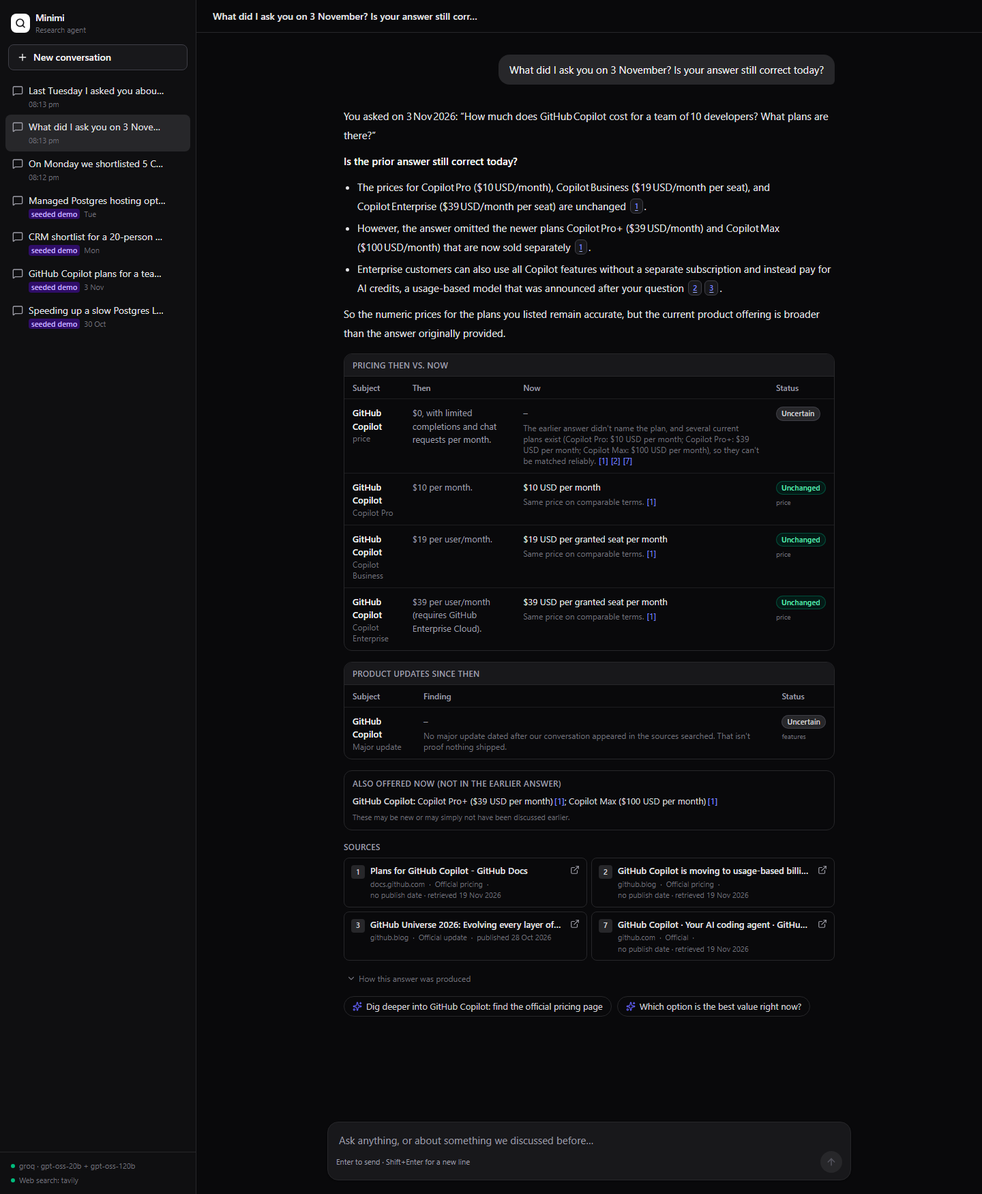
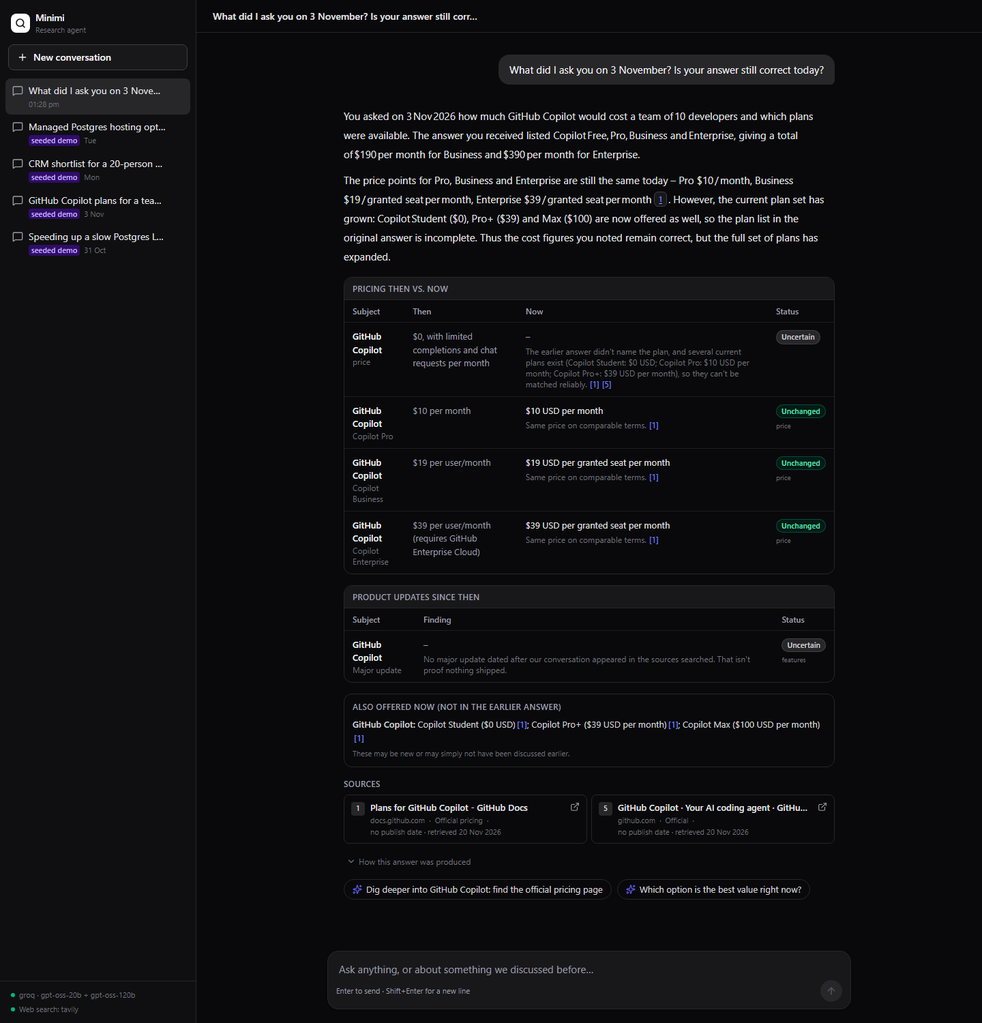
Final docs updated

diff --git a/evals/live-runner.ts b/evals/live-runner.ts
@@ -39,7 +39,7 @@ class CapturingLogger implements Logger {
 
 /**
  * `--from=<saved run json>`: re-render LIVE_REPORT.md from a saved run without calling any API.
- * Ground-truth grading and the entity check are recomputed with the current grader; every
+ * Ground-truth grading, offering (completeness) grading and the entity check are recomputed; every
  * other check and all system outputs are exactly as recorded in that run.
  */
 function rerenderFrom(file: string) {
@@ -49,13 +49,15 @@ function rerenderFrom(file: string) {
     const truth = groundTruth.cases[r.id as string] ?? [];
     r.graded = truth.map((e) => gradeEntry(e, comparisons));
     r.gradeSummary = summarizeGrades(r.graded as GradedEntry[]);
+    // Completeness (offering) grades are recomputed too, so review-label changes show up.
+    r.offeringGrades = (groundTruth.offering?.[r.id as string] ?? []).map((o) => gradeOffering(o, (r.offering ?? []) as Parameters<typeof gradeOffering>[1]));
     const checks = r.checks as Record<string, boolean>;
     checks.entitiesCovered = [...new Set(truth.map((t) => t.subject))].every((s) => comparisons.some((x) => rowMentionsEntity(x, s)));
     r.pass = Object.values(checks).every(Boolean);
     r.violations ??= [];
     r.planAttribution ??= { verified: 0, total: 0 };
   }
-  const note = `Re-rendered from the saved run \`${file.replace(/.*[\\/]/, "")}\`; ground-truth grading and the entity check were recomputed with the current grader, everything else is as recorded.`;
+  const note = `Re-rendered from the saved run \`${file.replace(/.*[\\/]/, "")}\`; ground-truth and completeness grading and the entity check were recomputed with the current grader and ground truth, everything else is as recorded.`;
   writeFileSync(join(here, "LIVE_REPORT.md"), renderReport(saved.ranAt, saved.provider, saved.results, note));
   console.log(`Re-rendered evals/LIVE_REPORT.md from ${file}`);
 }

diff --git a/evals/LIVE_REPORT.md b/evals/LIVE_REPORT.md
@@ -1,6 +1,6 @@
 # Live evaluation report
 
-Run on 2026-11-20T06:56:20.379Z with `npm run eval:live` · LLM: groq (openai/gpt-oss-20b, openai/gpt-oss-120b) · search: Tavily. Re-rendered from the saved run `live-2026-11-20T06-56-20-379Z.json`; ground-truth grading and the entity check were recomputed with the current grader, everything else is as recorded.
+Run on 2026-11-20T07:57:47.554Z with `npm run eval:live` · LLM: groq (openai/gpt-oss-20b, openai/gpt-oss-120b) · search: Tavily. Re-rendered from the saved run `live-2026-11-20T07-57-47-554Z.json`; ground-truth and completeness grading and the entity check were recomputed with the current grader and ground truth, everything else is as recorded.
 Fresh temporary database seeded with the labelled demo conversations; search cache disabled; 20s pause between cases (one user asking one question at a time; Groq free-tier limits are per minute).
 
 **Automatic checks (pass/fail):** completed · retrieved the right earlier conversation · searched when expected · every [S#] resolves to a retrieved source · research answers cite something · every vendor from the earlier conversation has a comparison row · structural checks (no verdict without an official source or an explicit third-party qualification, no amount change across incompatible terms, no 'changed' resting on a page published before the conversation).
@@ -9,11 +9,11 @@ Fresh temporary database seeded with the labelled demo conversations; search cac
 
 | Case | Auto checks | Ground truth (correct / abstained / wrong / missing · ungraded) | Plan attribution verified | Latency | LLM calls | Searches | Tokens | Evidence kept / rejected |
 |---|---|---|---|---|---|---|---|---|
-| demo-crm | pass | 3 / 0 / 0 / 0 · 2 (provisional) | 3/4 | 7.1s | 4 | 10 | 13722 | 6 / 1 |
-| demo-nov3 | pass | 3 / 0 / 0 / 0 · 0 (provisional) | 7/7 | 12.7s | 4 | 4 | 13207 | 9 / 0 |
-| demo-postgres | pass | 3 / 0 / 0 / 0 · 2 (provisional) | 6/6 | 7.6s | 4 | 10 | 12858 | 7 / 0 |
-| control-research | pass | – | 2/2 | 3.8s | 4 | 2 | 13023 | 2 / 0 |
-| control-chat | pass | – | – | 1.4s | 2 | 0 | 2885 | 0 / 0 |
+| demo-crm | pass | 3 / 0 / 0 / 0 · 2 | 3/4 | 15.7s | 4 | 10 | 13190 | 8 / 0 |
+| demo-nov3 | pass | 3 / 0 / 0 / 0 · 0 | 22/23 | 16.4s | 4 | 5 | 15768 | 24 / 4 |
+| demo-postgres | pass | 3 / 0 / 0 / 0 · 2 | 8/8 | 21.7s | 4 | 10 | 12947 | 11 / 0 |
+| control-research | pass | – | 4/4 | 14.8s | 4 | 2 | 10414 | 5 / 0 |
+| control-chat | pass | – | – | 1.6s | 2 | 0 | 3108 | 0 / 0 |
 
 ## demo-crm
 
@@ -30,10 +30,10 @@ Fresh temporary database seeded with the labelled demo conversations; search cac
 
 **Completeness (current plans not in the earlier answer):**
 
-- Ground truth (provisional) for Salesforce Sales Cloud: found none; missed Core, Advanced, Max
+- Ground truth for Salesforce Sales Cloud: found none; missed Core, Advanced, Max
 
 - Memory: found ([Demo] CRM shortlist for a 20-person sales team), On Monday → Monday, 16 November 2026
-- Searches: "HubSpot Sales Hub Professional pricing 2026 · hubspot.com" (done, 5); "Salesforce Sales Cloud Enterprise pricing 2026 · salesforce.com" (done, 5); "Pipedrive Professional pricing 2026 · pipedrive.com" (done, 5); "Freshsales Pro pricing 2026 · freshworks.com" (done, 5); "Zoho CRM Professional pricing 2026 · zoho.com" (done, 5); "Salesforce Sales Cloud new features announcement November 2026" (done, 5); "HubSpot Sales Hub new features announcement November 2026" (done, 5); "Zoho CRM new features announcement November 2026" (done, 5); "Pipedrive new features announcement November 2026" (done, 5); "Freshsales new features announcement November 2026" (done, 5)
+- Searches: "HubSpot Sales Hub Professional pricing 2026 · hubspot.com" (done, 5); "Pipedrive Professional pricing 2026 · pipedrive.com" (done, 5); "Salesforce Sales Cloud Enterprise pricing 2026 · salesforce.com" (done, 5); "HubSpot Sales Hub new features announcement November 2026" (done, 5); "Salesforce Sales Cloud new features announcement November 2026" (done, 5); "Zoho CRM Professional pricing 2026 · zoho.com" (done, 5); "Freshsales Pro pricing 2026 · freshworks.com" (done, 5); "Pipedrive new features announcement November 2026" (done, 2); "Freshsales new features announcement November 2026" (done, 5); "Zoho CRM new features announcement November 2026" (done, 5)
 
 | Subject | Category | Then | Now | Status | Dimension |
 |---|---|---|---|---|---|
@@ -45,25 +45,21 @@ Fresh temporary database seeded with the labelled demo conversations; search cac
 | HubSpot Sales Hub (Major update) | product_update | - | - | uncertain | feature |
 | Salesforce Sales Cloud (Major update) | product_update | - | Copilotforce partnership announced | changed | feature |
 | Pipedrive (Major update) | product_update | - | - | uncertain | feature |
-| Zoho CRM (Major update) | product_update | - | - | uncertain | feature |
+| Zoho CRM (Possible update) | product_update | - | Zoho Desk adds Blended Agents built on Zia Agents | uncertain | feature |
 | Freshsales (Major update) | product_update | - | - | uncertain | feature |
 
 **Answer:**
 
-HubSpot Sales Hub Professional and Freshsales Pro keep the same annual price as we noted on Monday (HubSpot $90 and Freshsales $39 per user) [S1][S2]. 
-Salesforce Sales Cloud Enterprise’s current price isn’t publicly confirmed in the vendor’s own page, so we can’t verify whether it has changed [S7]. However, Salesforce announced a major Copilotforce partnership on November 17 2026, a notable product update [S9]. 
-No major feature or pricing changes were found for Pipedrive, Zoho CRM, or the other plans in the time since our last discussion. 
-
-*(seeded demo data)*
-
-I couldn't verify current prices for Salesforce Sales Cloud Enterprise, Pipedrive Professional or Zoho CRM Professional: no retrievable page stated a price for these plans, so I can't say whether they changed.
+Only Salesforce’s feature set has changed – the Copilotforce partnership was announced on Nov 17 2026 [S8]. 
+HubSpot Sales Hub and Freshsales kept the same pricing we listed before: $90 per user/month (annual) for HubSpot [S1] and $39 per user/month (annual) for Freshsales [S2]. 
+No new prices or major releases have been confirmed for Salesforce, Pipedrive, or Zoho, so their current terms are still unverified and no additional features were noted.
 
 **Sources:**
 
 - [S1] HubSpot’s Sales Hub pricing guide — essential features for every rep (https://blog.hubspot.com/sales/hubspot-sales-hub-pricing)
 - [S2] Freshsales CRM Pricing Comparison | Freshsales (https://freshworks.com/crm/pricing-compare)
-- [S7] Salesforce Sales Pricing | Salesforce (https://salesforce.com/sales/pricing)
-- [S9] Salesforce and Microsoft Announce Copilotforce - Salesforce (https://salesforce.com/news/stories/copilotforce-announcement), published 2026-11-17
+- [S8] Salesforce and Microsoft Announce Copilotforce - Salesforce (https://salesforce.com/news/stories/copilotforce-announcement), published 2026-11-17
+- [S11] Zoho Desk adds Blended Agents built on Zia Agents (https://forgex.ai/news/zoho-desk-adds-blended-agents-built-on-zia-agents), published 2026-11-16
 
 ## demo-nov3
 
@@ -78,37 +74,38 @@ I couldn't verify current prices for Salesforce Sales Cloud Enterprise, Pipedriv
 
 **Completeness (current plans not in the earlier answer):**
 
-- System listed for GitHub Copilot: Copilot Student (Free); Copilot Pro+ ($39 USD per month.); Copilot Max ($100 USD per month)
-- Ground truth (provisional) for GitHub Copilot: found Pro+, Max
+- System listed for GitHub Copilot: Copilot Pro+ ($39 USD per month); Copilot Max ($100 USD per month)
+- Ground truth for GitHub Copilot: found Pro+, Max
 
 - Memory: found ([Demo] GitHub Copilot plans for a team of 10), 3 November → Tuesday, 3 November 2026
-- Searches: "GitHub Copilot new features announcement November 2026" (done, 5); "GitHub Copilot 2026 updates" (done, 5); "GitHub Copilot pricing 2026 · github.com" (done, 5); "GitHub Copilot pricing 2026" (done, 5)
+- Searches: "GitHub Copilot Enterprise pricing · github.com" (done, 5); "GitHub Copilot Business pricing · github.com" (done, 5); "GitHub Copilot new features announcement November 2026" (done, 5); "GitHub Copilot Business pricing" (done, 5); "GitHub Copilot Enterprise pricing" (done, 5)
 
 | Subject | Category | Then | Now | Status | Dimension |
 |---|---|---|---|---|---|
-| GitHub Copilot (Copilot Pro) | pricing | $10 per month | $10 USD per month (free for some users) | unchanged | price_amount |
+| GitHub Copilot (price) | pricing | $0 | - | uncertain | evidence |
+| GitHub Copilot (Copilot Pro) | pricing | $10 per month | $10 USD per month | unchanged | price_amount |
 | GitHub Copilot (Copilot Business) | pricing | $19 per user/month | $19 USD per granted seat per month | unchanged | price_amount |
-| GitHub Copilot (Copilot Enterprise) | pricing | $39 per user/month | $39 USD per granted seat per month | unchanged | price_amount |
-| GitHub Copilot (Possible update) | product_update | - | GitHub Copilot is moving to usage-based billing | uncertain | feature |
+| GitHub Copilot (Copilot Enterprise) | pricing | $39 per user/month (requires GitHub Enterprise Cloud) | $39 USD per granted seat per month | unchanged | price_amount |
+| GitHub Copilot (Possible update) | product_update | - | Transition to usage‑based billing | uncertain | feature |
 
 **Answer:**
 
-You asked on 3 Nov 2026 how much GitHub Copilot would cost a team of 10 developers and what plans were available. That answer – listing Copilot Free, Copilot Pro ($10 / user / month), Copilot Business ($19 / seat / month), and Copilot Enterprise ($39 / seat / month) – was correct then [S5]. 
+You asked on 3 Nov: “How much does GitHub Copilot cost for a team of 10 developers? What plans are there?” 
 
-**What changed since then** 
-GitHub switched Copilot to usage‑based billing from 1 June 2026, so the fixed per‑seat prices are no longer the billing basis; cost now depends on AI‑credit usage or Actions minutes consumed [S2][S7]. 
+The pricing you received—Copilot Pro $10 / month, Business $19 / seat, Enterprise $39 / seat—remains accurate today; the prices are unchanged per the official list [S4]. 
 
-**What remains true** 
-The names of the plans (Free, Pro, Business, Enterprise) and the per‑seat price amounts for those plans were unchanged at the time of the earlier answer [S5], and the Enterprise plan still requires GitHub Enterprise Cloud [S5]. 
-
-**New offerings now** 
-In addition to the plans mentioned earlier, GitHub now offers Copilot Student (Free) and higher‑tier plans such as Copilot Pro+ ($39 / month) and Copilot Max ($100 / month), which were not part of the 3 Nov 2026 answer [S5].
+What has changed: GitHub now also offers Copilot Pro+ at $39 / month and Copilot Max at $100 / month, which were not included in the earlier reply [S4] [S1]. The earlier answer is still correct for the plans it named, but it is incomplete relative to the current full set of offerings.
 
 **Sources:**
 
-- [S2] GitHub Copilot is moving to usage-based billing - The GitHub Blog (https://github.blog/news-insights/company-news/github-copilot-is-moving-to-usage-based-billing)
-- [S5] Plans for GitHub Copilot - GitHub Docs (https://docs.github.com/en/copilot/get-started/plans)
-- [S7] The new GitHub Copilot plans are an absolute disaster · community · Discussion #197782 · GitHub (https://github.com/orgs/community/discussions/197782)
+- [S1] GitHub Copilot seats and billing cycles for organizations and enterprises - GitHub Docs (https://docs.github.com/copilot/concepts/billing/organizations-and-enterprises)
+- [S4] Plans for GitHub Copilot - GitHub Docs (https://docs.github.com/en/copilot/get-started/plans)
+- [S2] Choosing your enterprise's plan for GitHub Copilot - GitHub Docs (https://docs.github.com/copilot/get-started/choose-enterprise-plan)
+- [S3] GitHub Copilot is moving to usage-based billing - The GitHub Blog (https://github.blog/news-insights/company-news/github-copilot-is-moving-to-usage-based-billing)
+- [S6] GitHub Copilot licenses - GitHub Docs (https://docs.github.com/en/billing/concepts/product-billing/github-copilot-licenses)
+- [S9] Github Copilot Individual or Business Subscription · community · Discussion #195495 · GitHub (https://github.com/orgs/community/discussions/195495)
+- [S11] GitHub Copilot Pricing Plans, Hidden Costs, and 5 Ways to Control Them (https://finout.io/blog/github-copilot-pricing-plans-hidden-costs-and-5-ways-to-control-them)
+- [S12] GitHub Copilot Business Pricing ($19/seat/mo) (https://aipricing.guru/subscriptions/github-copilot-business)
 
 ## demo-postgres
 
@@ -124,56 +121,66 @@ In addition to the plans mentioned earlier, GitHub now offers Copilot Student 
 | AWS RDS for PostgreSQL · db.t4g.micro | ungraded | uncertain (evidence) | not verifiable: regional instance price tables are JavaScript-rendered; not fetched |
 
 - Memory: found ([Demo] Managed Postgres hosting options), Last Tuesday → Tuesday, 17 November 2026
-- Searches: "Render Postgres Basic-1gb pricing · render.com" (done, 5); "Supabase Pro pricing · supabase.com" (done, 5); "Neon Launch pricing · neon.tech" (done, 5); "Railway Hobby pricing · railway.app" (done, 5); "Neon Launch pricing" (done, 5); "AWS RDS db.t4g.micro pricing · aws.amazon.com" (done, 5); "Supabase Pro pricing" (done, 5); "AWS RDS db.t4g.micro pricing" (done, 5); "Render Postgres Basic-1gb pricing" (done, 5); "Neon Launch pricing change (timing check)" (done, 5)
+- Searches: "Supabase Pro pricing 2026 · supabase.com" (done, 5); "Neon Launch pricing 2026 · neon.tech" (done, 5); "Render Postgres Basic-1gb pricing 2026 · render.com" (done, 5); "Railway Hobby pricing 2026 · railway.app" (done, 5); "Neon Launch pricing 2026" (done, 5); "AWS RDS PostgreSQL db.t4g.micro pricing 2026 · aws.amazon.com" (done, 5); "Supabase Pro pricing 2026" (done, 5); "Render Postgres Basic-1gb pricing 2026" (done, 5); "AWS RDS PostgreSQL db.t4g.micro pricing 2026" (done, 5); "Neon Launch pricing change (timing check)" (done, 5)
 - Notes: Interpreted "Last Tuesday" as Tuesday, 17 November 2026 (the most recent such weekday).
 
 | Subject | Category | Then | Now | Status | Dimension |
 |---|---|---|---|---|---|
-| Neon Launch (Neon Launch) | pricing | $19 per month | $0.106 per CU-hour and $0.35 per GB-month | uncertain | pricing_model |
-| Supabase Pro (Supabase Pro) | pricing | $25 per month per organization | $25/ month | unchanged | price_amount |
-| Render Postgres Basic-1gb (Render Postgres Basic-1gb) | pricing | $19 per month | - | uncertain | evidence |
-| AWS RDS for PostgreSQL (db.t4g.micro) (AWS RDS for PostgreSQL (db.t4g.micro)) | pricing | about $0.016 per hour on-demand in us-east-1 (~$12/month) plus storage | - | uncertain | evidence |
-| Railway Hobby (Railway Hobby) | pricing | $5 per month, including $5 of usage | $5/mo | unchanged | price_amount |
+| Neon (Launch) | pricing | $19 per month | $0.106 per CU-hour | uncertain | pricing_model |
+| Supabase (Pro) | pricing | $25 per month per organization | $25 per month | unchanged | price_amount |
+| Render (Postgres Basic-1gb) | pricing | $19 per month | - | uncertain | evidence |
+| AWS (RDS for PostgreSQL (db.t4g.micro)) | pricing | about $0.016 per hour on-demand in us-east-1 (~$12/month) plus storage | - | uncertain | evidence |
+| Railway (Hobby) | pricing | $5 per month, including $5 of usage | $5/mo | unchanged | price_amount |
 
 **Answer:**
 
-Neon’s pricing model has shifted to usage‑based, Supabase Pro and Railway Hobby have stayed the same, and there is no current evidence that Render or AWS RDS changed.
+**Short answer:** 
+Neon’s pricing model has shifted to usage‑based (≈$0.106 per CU‑hour) instead of a flat $19 /month plan [S2] [S4]. Supabase Pro, Railway Hobby, and (by the data we have) Render and AWS remain unchanged or cannot be verified.
 
-- **Neon Launch** – The plan now charges $0.106 per CU‑hour and $0.35 per GB‑month, with no monthly minimum [S4][S6]. 
- The earlier answer already listed this model before the 2026‑11‑17 conversation, so nothing has changed since then. 
-- **Supabase Pro** – Still $25 per month per organization [S1]. 
-- **Railway Hobby** – Still $5 per month (subscription includes $5 of usage) [S3]. 
-- **Render Postgres Basic‑1gb** – No current pricing evidence is available; the latest pages did not reveal a price [S9]. 
-- **AWS RDS (db.t4g.micro)** – No current pricing evidence is available; the latest pages did not reveal a price [S10].
+**What was discussed then (17 Nov 2026):** 
+You asked for a side‑project‑ready Postgres hosting comparison. The answer listed Neon Launch at $19 /month, Supabase Pro at $25 /month, Render Basic‑1 GB at $19 /month, AWS RDS db.t4g.micro at ~$12 /month, and Railway Hobby at $5 /month [S6] [S8].
 
-I couldn't verify current prices for Render Postgres Basic-1gb or AWS RDS for PostgreSQL (db.t4g.micro): no retrievable page stated a price for these plans, so I can't say whether they changed.
+**What changed:** 
+*Neon Launch* – the plan is now fully usage‑based, $0.106 per compute‑unit hour, not a fixed monthly fee [S2].
 
-Neon Launch: The vendor's own page (dated 2025-08-14, from its byline, before our conversation on 2026-11-17) already listed Neon Launch as usage-based ($0.106 per CU-hour) [S4] [S6]. The earlier answer was likely already out of date when given; this doesn't show a change since then. [S4][S6]
+**What stayed the same:** 
+*Supabase Pro* – still $25 /month per organization [S6]. 
+*Railway Hobby* – still $5 /month (includes first $5 of usage) [S7].
+
+**What could not be confirmed:** 
+Render’s Basic‑1 GB and AWS RDS db.t4g.micro pricing could not be retrieved; the vendor pages are not reliably accessible for automated scraping, so we have no current evidence [S9][S10].
+
+*(Seeded demo data was used to reconstruct the prior answer.)*
+
+Neon Launch: The vendor's own page (dated 2025-08-14, from its byline, before our conversation on 2026-11-17) already listed Launch as usage-based ($0.106 per CU-hour) [S2] [S4]. The earlier answer was likely already out of date when given; this doesn't show a change since then. [S2]
 
 **Sources:**
 
-- [S1] Pricing & Fees | Supabase (https://supabase.com/pricing)
-- [S3] Pricing | Railway Docs (https://docs.railway.com/pricing)
-- [S4] What are the limits and quotas for Neon's Free plan? - Neon FAQs (https://neon.com/faqs/free-plan-limits-and-quotas)
-- [S6] Neon’s New Pricing, Explained: Usage-Based, No Minimum (https://neon.com/blog/new-usage-based-pricing)
+- [S2] Neon’s New Pricing, Explained: Usage-Based, No Minimum (https://neon.com/blog/new-usage-based-pricing)
+- [S4] Making pricing more predictable (https://neon.com/blog/making-pricing-more-predictable)
+- [S6] Pricing & Fees | Supabase (https://supabase.com/pricing)
+- [S7] Pricing | Railway Docs (https://docs.railway.com/pricing)
+- [S8] How much does a database-only Supabase project cost? | Supabase Knowledge Base (https://supabase.com/kb/faqs/platform/database-only-cost)
 - [S9] How much does cloud application hosting cost for small businesses (https://render.com/articles/how-much-does-cloud-application-hosting-cost-for-small-businesses)
-- [S10] Amazon RDS for MySQL pricing (https://aws.amazon.com/rds/mysql/pricing)
+- [S10] Amazon RDS for PostgreSQL Pricing (https://aws.amazon.com/rds/postgresql/pricing)
 
 ## control-research
 
 > What is the current price of the Cursor Pro plan?
 
 - Memory: not_requested
-- Searches: "Cursor Pro plan pricing" (done, 5); "Cursor Pro plan pricing · cursor.so" (done, 5)
+- Searches: "Cursor Pro plan pricing · cursor.so" (done, 5); "Cursor Pro plan pricing" (done, 5)
 
 **Answer:**
 
-Cursor Pro is no longer offered to new customers; it is a legacy plan listed as $20 / mo in the old pricing schedule [S1]. New users must choose the next tier, Premium, which costs $30 / mo [S3]. If you are an existing Pro subscriber you can keep the plan until you decide to upgrade or cancel [S1].
+Cursor Pro is priced at $20 per month [S1][S4]. 
+This is a legacy plan and is no longer available to new customers; the nearest current individual tier is Premium at $30 per month [S3].
 
 **Sources:**
 
 - [S1] Pricing and plans | Cursor Docs (https://cursor.com/help/account-and-billing/pricing)
 - [S3] Models & Pricing | Cursor Docs (https://cursor.com/docs/models-and-pricing)
+- [S4] Clarifying our pricing · Cursor (https://cursor.com/blog/june-2025-pricing)
 
 ## control-chat
 
@@ -183,7 +190,7 @@ Cursor Pro is no longer offered to new customers; it is a legacy plan listed a
 
 **Answer:**
 
-I can help with a wide range of questions—anything from quick facts and explanations to deeper research, summarizations, data interpretation, or brainstorming ideas. Just let me know what you need!
+I don’t have a record of a prior conversation with you, so I’m starting fresh. I can help with a wide range of questions—from general knowledge, research, and summarizing text to math, coding, language learning, and practical advice on many topics.
 
 ## Run history
 
@@ -222,3 +229,5 @@ Every complete live run saved in `evals/results/` (checks and grades as recorded
 | 2026-11-20 07:06 | 4/5 | 9 / 0 / 0 / 0 |  |
 | 2026-11-20 07:08 | 1/5 | 3 / 0 / 0 / 6 | 4 case(s) failed: daily quota exhausted |
 | 2026-11-20 07:11 | 0/5 | 0 / 0 / 0 / 9 | 5 case(s) failed: daily quota exhausted |
+| 2026-11-20 07:35 | 0/5 | 0 / 0 / 0 / 9 | 5 case(s) failed: daily quota exhausted |
+| 2026-11-20 07:57 | 5/5 | 9 / 0 / 0 / 0 |  |

diff --git a/docs/evaluation.md b/docs/evaluation.md
@@ -38,7 +38,7 @@ Each live case is checked two ways.
   - no `changed` resting on a page published before the conversation (historical cutoff).
 - **Plan attribution rate (reported):** the share of pricing evidence whose price is tied to the named plan (quote-to-claim relevance).
 
-**2. Ground-truth grading** against [evals/ground-truth.json](../evals/ground-truth.json). Each entry quotes the vendor's official page. On 2026-11-19 an AI agent re-opened every page and found the quoted text (`review: "agent-verified 2026-11-19"`). **No entry is `human-confirmed`, so every grade is reported as provisional.** Entries whose price couldn't be confirmed on the page (Render, AWS RDS, Pipedrive, Zoho) carry no expectation and are reported as *ungraded*, never guessed. Grades:
+**2. Ground-truth grading** against [evals/ground-truth.json](../evals/ground-truth.json). Each entry quotes the vendor's official page. An AI agent first opened every page and found the quoted text (agent-verified, 2026-11-19 and 2026-11-20). **On 2026-11-20 the project author opened each official page and confirmed every graded entry (`review: "human-confirmed"`), so grades are no longer provisional.** Earlier sections of this document describe grades as provisional because they were at the time. Entries whose price couldn't be confirmed on the page (Render, AWS RDS, Pipedrive, Zoho) carry no expectation and are reported as *ungraded*, never guessed. Grades:
 
 | Grade | Meaning |
 |---|---|
@@ -228,7 +228,7 @@ Fixes for the answer-text problems above. Each has a regression test that fails 
 | CRM | pass | 3 / 0 / 0 · 2 | update searches ran for all 5 vendors (Freshsales: 4 results, so "checked"); Freshsales Pro now **correct** (unchanged, freshworks.com); HubSpot unchanged; Salesforce Enterprise uncertain; Salesforce update "changed" (dated after the baseline) |
 | 3 November | pass | 3 / 0 / 0 · 0 | Pro / Business / Enterprise unchanged; "also offered now": Pro+, Max |
 | Postgres | pass | 2 / 1 / 0 · 2 | Neon `changed / pricing_model`, `changeTiming: unknown` → **abstained**. The timing search failed with Tavily HTTP 432 (quota). The guard appended the "can't tell whether it changed before or after our conversation" statement. This run predates the "Yes –" fix, so its answer still opens with "Yes –" |
-| Cursor control | **fail** (`citesSomething`) | – | both searches failed with Tavily HTTP 432; the answer honestly says nothing could be verified. The legacy-plan fix is **not live-validated** |
+| Cursor control | **fail** (`citesSomething`) | – | both searches failed with Tavily HTTP 432; the answer honestly says nothing could be verified. The legacy-plan fix was **not live-validated in this run** (it was later: see below) |
 | Chat control | pass | – | |
 
 **Totals: 8 correct / 1 abstained / 0 wrong (provisional); 4/5 auto checks.** The Tavily account then rejected every request ("This request exceeds your plan's set usage limit"), although its usage endpoint reported 943/1,000 credits. Part of that budget went on this session's diagnostic searches. These were validated live on 2026-11-20 with a new Tavily key; see [Live validation, 2026-11-20](#live-validation-2026-11-20).
@@ -247,7 +247,7 @@ The Tavily account was still over its limit on 2026-11-20 (usage 1,001 / 1,000; 
 | A "none found" row inside a markdown table would have been replaced with prose (breaking the table) | table rows are removed whole; the statement goes after the answer | unit test |
 | Exhausted search quota reported as generic failures, then retried | HTTP 432/433 → `SEARCH_QUOTA`: no retry, no further searches, and the answer says the search quota is exhausted | `search.test.ts` |
 
-**Cursor control on real pages, real models (after the fixes):** *"The Cursor Pro plan is now a legacy offering at $20 / month [S1] [S3]. New customers are directed to the Premium tier, which costs $30 / month [S1]."* All three ground-truth facts are present and every price is on the cited page. This used real page text and real models, but not real search, so it is **not a full live run**.
+**Cursor control on real pages, real models (after the fixes):** *"The Cursor Pro plan is now a legacy offering at $20 / month [S1] [S3]. New customers are directed to the Premium tier, which costs $30 / month [S1]."* All three ground-truth facts are present and every price is on the cited page. This used real page text and real models, but not real search, so it is **not a full live run**. Sequence for the Cursor fix: the 17:47 full live run failed (no search credits) → this real-page/real-model test passed → with a new Tavily key, full live runs on 2026-11-20 passed it in 5 of 9 runs during development and on the final commit (below).
 
 ## Live validation, 2026-11-20
 
@@ -268,6 +268,7 @@ With a new Tavily key, `npm run eval:live` ran against real Groq + Tavily. Every
 | 07:06 | 4/5 | 9 / 0 / 0 / 0 | Zoho update marked "changed" from a third-party post about Zoho *Desk* → updates need vendor or news authority (third-party = possible update); a stray "not" no longer exempts a launch claim |
 | 07:08 | 1/5 | 3 / 0 / 0 / 6 | **Final code.** CRM completed: 3/3, prose accurate. The other four cases failed: Groq's daily token quota was exhausted |
 | 07:11 | 0/5 | – | Groq daily quota exhausted |
+| **07:57** | **5/5** | **9 / 0 / 0 / 0** | **Final commit (83a5d11 code), full five-case run.** Every answer read against its rows and sources: CRM 3/3 (Salesforce Copilotforce from salesforce.com dated 17 Nov; the third-party Zoho *Desk* post now only a "possible update"); 3 November 3/3 plus Pro+ and Max; Postgres 3/3 with Neon "already out of date" (blog dated 2025-08-14); Cursor complete. **Shown in full in [evals/LIVE_REPORT.md](../evals/LIVE_REPORT.md)** |
 
 Totals over the nine complete runs (06:30–07:06): **77 correct, 4 abstained, 0 wrong, 0 missing** (provisional ground truth). No run gave a confident verdict the ground truth contradicts. The four abstentions: Neon once (06:30, before the timing fix), Copilot Pro twice, Freshsales once.
 
@@ -277,20 +278,38 @@ Totals over the nine complete runs (06:30–07:06): **77 correct, 4 abstained, 0
 |---|---|
 | 06:30, 06:39 | incomplete: "$20/month" only (only third-party pages; legacy table not parsed) |
 | 06:34, 06:46 | legacy + not sold to new customers; no successor |
-| 06:43, 06:50, 06:52, 06:56, 07:06 | **complete**: all three facts, cited to cursor.com |
+| 06:43, 06:50, 06:52, 06:56, 07:06, final commit (07:32 single case, 07:57 full run) | **complete**: all three facts, cited to cursor.com |
 
 ### What stays variable (model and search variance, honest abstentions)
 
 - **Copilot Pro** abstained in 2 of 9 runs: the extractor read GitHub's "$15 per month" *included AI-credit allowance* as Pro's price, and the conflict check refused a verdict. A deterministic credits-vs-price rule was rejected because it would also drop genuine prices on other vendors' pages.
 - **Freshsales** abstained in 1 of 9 runs (its pricing page wasn't retrieved). **Salesforce's Copilotforce** update was extracted in about half the runs; the backstop now shows it as a possible update when a dated vendor page is in the sources.
-- **Prose residue:** the guard enforces specific facts. Other wording is still the model's: e.g. a Neon sentence that doesn't name Neon ("the earlier answer already listed this model"), or a pre-conversation GitHub billing change placed under "what changed since then". The comparison rows were correct in both cases.
+- **Prose residue:** the guard enforces specific facts. Other wording is still the model's. In development runs: a Neon sentence that doesn't name Neon ("the earlier answer already listed this model"), and a pre-conversation GitHub billing change placed under "what changed since then". In the final run: the CRM answer says Salesforce's features changed and, in its last sentence, that no major release was confirmed for Salesforce; the Postgres answer files Neon under "What changed" before the appended statement says it predates the conversation. The comparison rows were correct in every case.
 
 ### Screenshots
 
-`docs/screenshots/crm.png` and `postgres.png` were retaken from the app on 2026-11-20 (fresh database, same code except the last two guard rules). `nov3.png` is from 2026-11-19.
+`docs/screenshots/crm.png` and `postgres.png` were retaken from the app on 2026-11-20 (fresh database, same code except the last two guard rules). The earlier `nov3.png` (2026-11-19) was withdrawn on review: its prose said a billing change was "announced after your question" citing a page dated 28 Oct, before the 3 Nov conversation. It was **retaken on the final commit** (2026-11-20): prices unchanged per docs.github.com, Student / Pro+ / Max listed as also offered now, and no unsupported update claim.
+
+## Human review (completed 2026-11-20)
+
+The project author opened each official page below and confirmed the quoted text. Every graded entry in [evals/ground-truth.json](../evals/ground-truth.json) is now `review: "human-confirmed"` (the earlier agent check is kept in each entry's `agentCheck` field, and the change is in `changeLog`). No expectation was changed.
+
+| Entry | URL | Confirmed |
+|---|---|---|
+| Neon Launch | neon.com/pricing · neon.com/blog/new-usage-based-pricing | Launch is usage-based ($0.106 per CU-hour); blog byline Aug 14, 2025 (before the 17 Nov conversation) |
+| Supabase Pro | supabase.com/pricing | Pro $25/month |
+| Railway Hobby | railway.com/pricing | Hobby $5/mo |
+| GitHub Copilot Pro / Business / Enterprise, Pro+ / Max | docs.github.com/en/copilot/get-started/plans | $10 / $19 / $39 USD; Pro+ $39, Max $100 |
+| Cursor control | cursor.com/docs/account/pricing/legacy-cursor-plans | Pro $20/mo is legacy → Premium ($30/mo); not available to new customers |
+| HubSpot Professional, Freshsales Pro, Salesforce (Enterprise absent; Core / Advanced / Max offered) | URLs in ground-truth.json | HubSpot $90/seat (annual), Freshsales $39/user (annual), no Salesforce edition named "Enterprise" |
+
+Render, AWS RDS, Pipedrive and Zoho stay **ungraded** (prices not retrievable: JavaScript-rendered, HTTP 403, or an INR placeholder).
 
 ## Final verification
 
-- **Local checks on the final working tree** (clean `npm ci`, 2026-11-20): typecheck 0 errors · lint clean · `npm test` **226/226** (15 files) · `npm run eval` **54/54**; `evals/REPORT.md` regenerates identically on repeat runs · `npm run build` ok. A fresh copy without `.env` passes `npm install` → `npm run dev` (UI served, demo data seeded, `/api/health` names the missing keys).
-- **Live:** the last complete run (06:56) passed 5/5 automatic checks with 9 correct / 0 abstained / 0 wrong (provisional). The final code's last two changes (update authority, negation handling) were validated live only on the CRM case (07:08, 3/3) before Groq's daily quota ran out; all other cases are covered by regression tests built from the live text.
-- **Last verified commit and CI:** `7311bf6752871e0cf811bc41b3038e1969af59b6`, GitHub Actions run 44549309602. All three jobs succeeded (Ubuntu Node 22, Ubuntu Node 24, Windows Node 24). The changes since then need a commit, after which CI runs on that commit.
+- **Final code:** commit `83a5d1139c69fac6581d82ded42668552e0a7756` ("Final evaluation and docs updated"). The commit after it changes documentation, the evaluation report, ground-truth review labels, the 3 November screenshot, and the report re-render tool (`evals/live-runner.ts --from` now also recomputes completeness grades); no agent code changed.
+- **CI:** GitHub Actions run 44693956464 on 83a5d11: **success**, all three jobs (Ubuntu Node 22, Ubuntu Node 24, Windows Node 24), each with clean install, typecheck, lint, tests, offline evaluation, the report-up-to-date check and build.
+- **Fresh clone of 83a5d11** (`git clone` from GitHub, no `.env`, 2026-11-20): `npm install` ok · `npm run typecheck` 0 errors · `npm run lint` clean · `npm test` **226/226** (15 files) · `npm run eval` **54/54** (report content identical; only line endings differ under `core.autocrlf`) · `npm run build` ok · `npm run dev`: UI served, demo data seeded, `/api/health` names the missing keys, and chat returns a clear `NOT_CONFIGURED` error.
+- **Live, final commit:** full five-case run (2026-11-20 07:57 UTC, real Groq + Tavily, default configuration) on the final code: **5/5 automatic checks, 9 correct / 0 abstained / 0 wrong** against human-confirmed ground truth. Hand-graded: Cursor control complete. Every answer was read against its rows and sources; the remaining prose residue is listed above. Shown in full in [evals/LIVE_REPORT.md](../evals/LIVE_REPORT.md). (An earlier attempt the same morning ran out of daily model quota; the run history records it.)
+- **Live, development sequence:** across nine complete runs while fixes were being made (06:30–07:06): 77 correct / 4 abstained / 0 wrong (graded at the time against provisional ground truth; no expectation changed when it was confirmed).
+- **Totals across all ten complete runs:** 86 correct / 4 abstained / 0 wrong / 0 missing. No run gave a confident verdict the ground truth contradicts.

diff --git a/README.md b/README.md
@@ -36,9 +36,9 @@ The app starts without keys; the UI banner and `/api/health` say what's missing.
 
 ![Postgres since last Tuesday: Neon's flat-to-usage change found on Neon's own blog dated 2025-08-14, so the earlier answer was already out of date (not a change since); Supabase and Railway unchanged; Render and AWS unverified](docs/screenshots/postgres.png)
 
-![3 November recall: Copilot Pro, Business and Enterprise prices unchanged; Pro+ and Max listed as also offered now](docs/screenshots/nov3.png)
+![3 November recall: Copilot Pro, Business and Enterprise prices unchanged on GitHub's docs; Student, Pro+ and Max listed as also offered now](docs/screenshots/nov3.png)
 
-Screenshots are from the app against live Groq + Tavily (CRM and Postgres on 2026-11-20, 3 November on 2026-11-19). Live output varies between runs.
+Screenshots are from the app against live Groq + Tavily on 2026-11-20 (3 November on the final commit). Live output varies between runs.
 
 Every row in the table carries a **status** (changed / unchanged / uncertain / not comparable) and the **dimension** it concerns (price, pricing model, billing terms, currency, plan availability, features). Sources show whether they are the vendor's own page or third-party, plus their publish date (or "no publish date").
 
@@ -55,7 +55,7 @@ flowchart LR
   O --> R[Research engine<br/>evidence validator · price parser<br/>change detector · citation filters]
 ```
 
-`validate → resolve dates → analyze → recall memory → plan → search → extract evidence → verify → compare → stream answer → filter/repair citations → persist`. Each stage reports progress over SSE (the UI shows it live), runs within a budget, and degrades instead of failing. A failed search, invalid model JSON, a rate-limited model or a missing key yields a qualified answer, not a crash.
+`validate → resolve dates → analyze → recall memory → plan → search → extract evidence → verify → compare → stream answer → filter/repair citations → persist`. Each stage reports progress over SSE (the UI shows it live) and runs within a budget. The pipeline handles missing credentials, invalid structured output and provider failures (including exhausted model or search quotas) with explicit errors or qualified partial answers, rather than silently presenting unverified facts.
 
 ```
 apps/api        Fastify routes: health, conversations, chat (SSE)
@@ -84,13 +84,13 @@ evals/          offline scenarios, live runner, grading, ground truth, reports
 |---|---|---|
 | `npm test` | 226 unit + integration tests (Fastify inject, deterministic doubles, no network) | 226/226 |
 | `npm run eval` | 54 deterministic scenarios: dates, memory, research, pricing, completeness, updates, multi-turn, uncertainty, adversarial, the 3 demos. Report: [evals/REPORT.md](evals/REPORT.md) | 54/54 |
-| `npm run eval:live` | the 3 demos + 2 controls against real Groq + Tavily. Structural + product-update checks, completeness grading, and verdict grading against [human-reviewable ground truth](evals/ground-truth.json). Report: [evals/LIVE_REPORT.md](evals/LIVE_REPORT.md) | 2026-11-20, nine complete runs: 77 correct / 4 abstained / **0 wrong** (provisional ground truth); last complete run 5/5 auto checks, 9/0/0. [Details](docs/evaluation.md#live-validation-2026-11-20) |
+| `npm run eval:live` | the 3 demos + 2 controls against real Groq + Tavily. Structural + product-update checks, completeness grading, and verdict grading against [human-reviewable ground truth](evals/ground-truth.json). Report: [evals/LIVE_REPORT.md](evals/LIVE_REPORT.md) | **Final commit:** full five-case run passed 5/5 automatic checks, 9 correct / 0 abstained / 0 wrong against human-confirmed ground truth; the Cursor control was complete. Across nine earlier complete runs during iterative development: 77 correct, 4 abstained, 0 wrong. [Details](docs/evaluation.md#live-validation-2026-11-20) |
 | `npm run eval:perf` | searches, LLM calls, tokens and per-stage latency computed from saved live runs (no API calls) | see [docs/evaluation.md](docs/evaluation.md) |
 | `npm run lint` · `npm run typecheck` · `npm run build` | ESLint, strict tsc, production build | clean |
 
 CI ([.github/workflows/ci.yml](.github/workflows/ci.yml)) runs a clean `npm ci`, typecheck, lint, tests, offline evaluation and build on Ubuntu (Node 22 and 24) and Windows (Node 24).
 
-Offline scenarios test the deterministic machinery against known model outputs. They don't measure live model quality. The live suite does, graded against ground truth taken from official pages and **marked provisional until a person confirms it** (currently agent-verified, not human-confirmed). Automatic checks don't judge answer prose. A code-level answer guard enforces the facts that live runs showed the model dropping or contradicting: "not checked" vs "none found", unverified prices called unchanged, launches no dated row supports, when a change happened, "not comparable" presented as a change, legacy plans, and prices that appear in no source. Other wording is still the model's.
+Offline scenarios test the deterministic machinery against known model outputs. They don't measure live model quality. The live suite does, graded against ground truth taken from official pages. **Every graded entry was human-confirmed on 2026-11-20** (the project author opened each page); vendors whose prices can't be retrieved (Render, AWS RDS, Pipedrive, Zoho) stay ungraded rather than guessed. Automatic checks don't judge answer prose. A code-level answer guard enforces the facts that live runs showed the model dropping or contradicting: "not checked" vs "none found", unverified prices called unchanged, launches no dated row supports, when a change happened, "not comparable" presented as a change, legacy plans, and prices that appear in no source. Other wording is still the model's.
 
 ## Known limitations
 

diff --git a/DESIGN.md b/DESIGN.md
@@ -46,10 +46,10 @@ Date phrases are resolved in code, in the user's timezone. An ambiguous phrase y
 
 - Accuracy is bounded by search coverage. JavaScript-rendered or bot-blocked pricing pages end up "uncertain".
 - The guard enforces specific facts; other wording is the model's.
-- Ground truth is agent-verified, not human-confirmed, and results vary between runs.
+- The answer key is small (12 human-confirmed entries; 4 vendors ungradable), and results vary between runs.
 
 With another week:
 1. Render and parse official pricing pages directly.
-2. Build a human-confirmed answer key, run nightly with calibration tracking.
+2. Grow the human-confirmed answer key and run it nightly with calibration tracking.
 3. Learn date disambiguation from user corrections.
 4. Add accounts and Postgres for multiple users.
